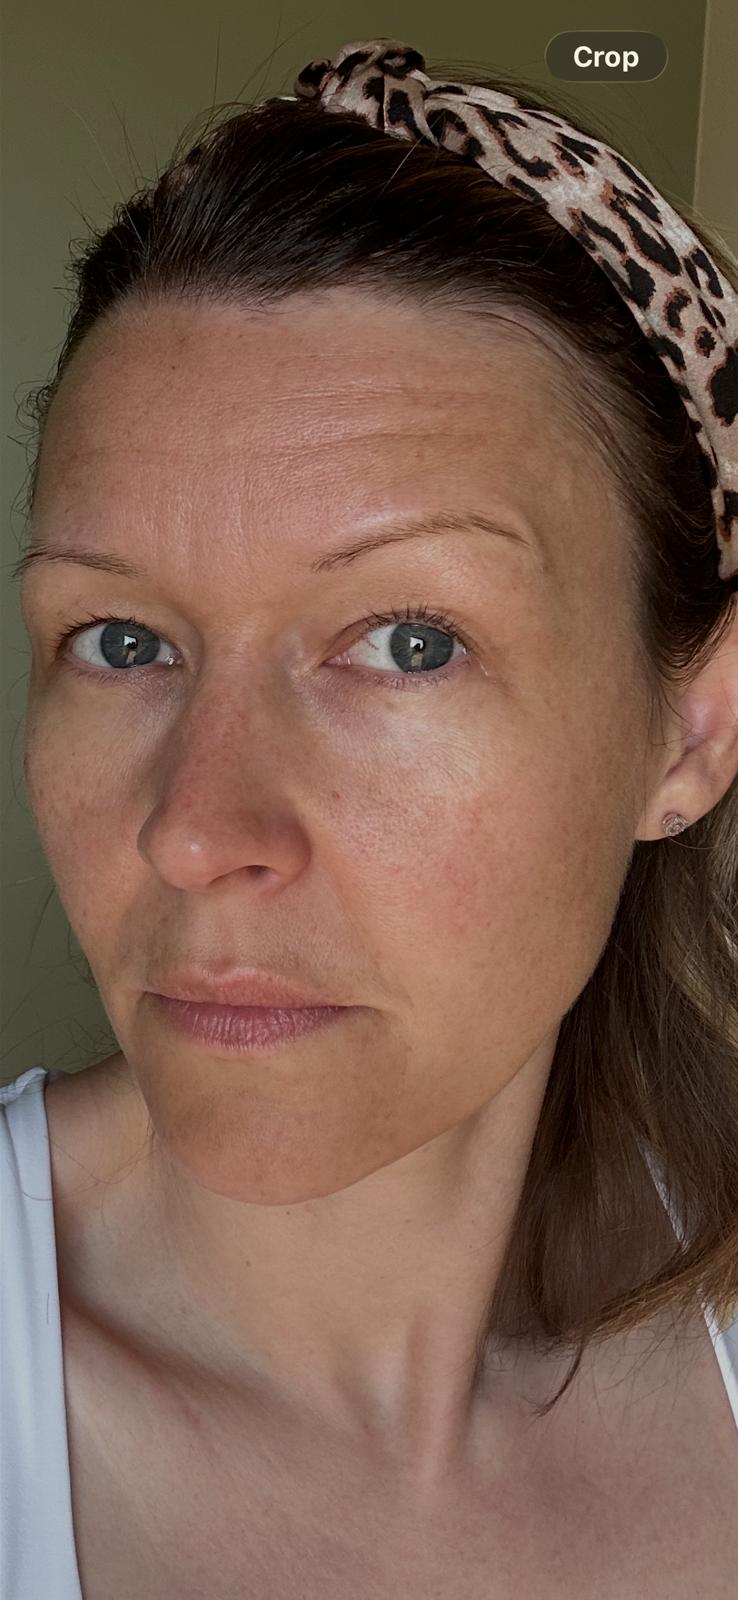
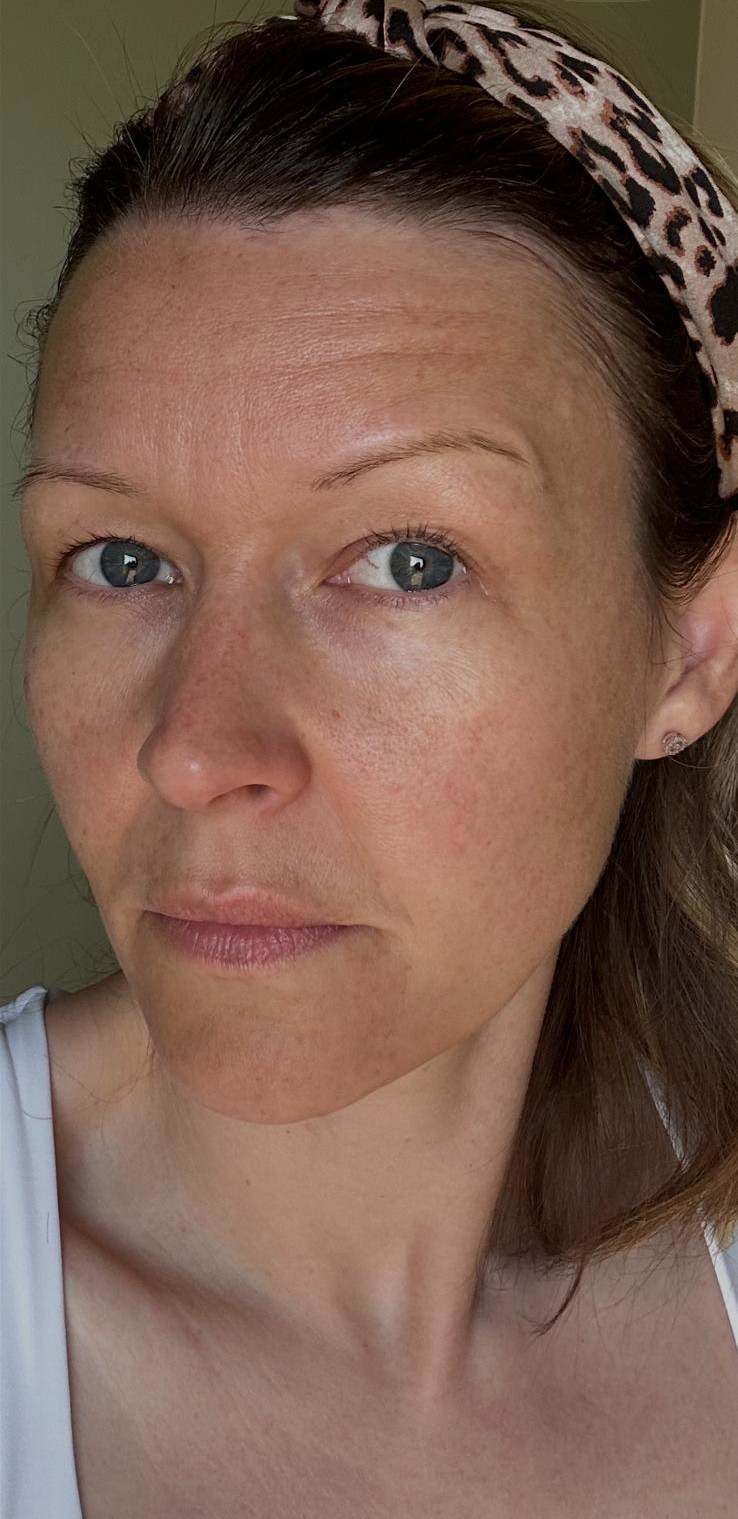
feat: add testimonials

diff --git a/app/testimonials/page.tsx b/app/testimonials/page.tsx
@@ -1,3 +1,62 @@
-import { SectionIntro, SiteShell, TestimonialGrid } from '@/components/serenity-site'
-export const metadata = { title: 'Kind words' }
-export default function TestimonialsPage() { return <SiteShell><main><section className="page-hero"><p className="eyebrow">Kind words</p><h1>What a little<br />space can hold.</h1></section><section className="section"><SectionIntro eyebrow="From our community" title="The best part is hearing how Serenity becomes part of your day." /><TestimonialGrid /></section></main></SiteShell> }
+import { type Metadata, type NextPage } from 'next';
+
+// components
+import PageTitle from '@/components/content/PageTitle';
+
+// constants
+import { TITLE } from '@/constants';
+
+// containers
+import PageShell from '@/containers/PageShell';
+
+// data
+import testimonials from '@/data/testimonials';
+
+// styles
+import styles from './styles.module.css';
+
+export const metadata: Metadata = { title: `Testimonials | ${TITLE}` };
+
+const TestimonialsPage: NextPage = () => {
+  return (
+    <PageShell>
+      <main className={styles.main}>
+        <header className={styles.header}>
+          <PageTitle>Our Testimonials</PageTitle>
+        </header>
+
+        <section className={styles.testimonials} aria-label="Customer testimonials">
+          {testimonials.map((item) => (
+            <article key={item.slug} id={`testimonial-${item.slug}`} className={styles.testimonial}>
+              {item.image && (
+                <div className={styles.image}>
+                  <img
+                    src={item.image}
+                    alt={item.name ? `Photo accompanying ${item.name}'s testimonial` : 'Photo accompanying this customer testimonial'}
+                    loading="lazy"
+                  />
+                </div>
+              )}
+
+              <div className={styles.content}>
+                {item.quote && <blockquote className={styles.quote}>{item.quote}</blockquote>}
+
+                {item.content && (
+                  <div className={styles.story}>
+                    {item.content.split(/\n\s*\n/).map((paragraph, index) => (
+                      <p key={index}>{paragraph}</p>
+                    ))}
+                  </div>
+                )}
+
+                {item.name && <footer className={styles.name}>{item.name}</footer>}
+              </div>
+            </article>
+          ))}
+        </section>
+      </main>
+    </PageShell>
+  );
+};
+
+export default TestimonialsPage;

diff --git a/app/testimonials/styles.module.css b/app/testimonials/styles.module.css
@@ -1,0 +1,91 @@
+.main {
+  display: flex;
+  flex-direction: column;
+  gap: var(--gap);
+  padding: var(--padding);
+}
+
+.header {
+  display: flex;
+  flex-direction: column;
+  align-items: center;
+  gap: var(--gap);
+  text-align: center;
+}
+
+.testimonials {
+  display: flex;
+  flex-direction: column;
+  gap: var(--gap);
+}
+
+.testimonial {
+  display: flex;
+  flex-direction: column;
+  gap: var(--gap);
+  padding: clamp(20px, 3vw, 40px);
+  background: var(--background);
+  color: var(--primary-font-color);
+}
+
+.image {
+  min-width: 0;
+}
+
+.image img {
+  display: block;
+  width: 100%;
+  height: auto;
+}
+
+.content {
+  display: flex;
+  flex-direction: column;
+  gap: 24px;
+  min-width: 0;
+  overflow-wrap: anywhere;
+}
+
+.quote {
+  margin: 0;
+  font-family: var(--font-heading);
+  font-size: clamp(26px, 3vw, 36px);
+  font-weight: 600;
+  line-height: 1.2;
+}
+
+.story {
+  display: flex;
+  flex-direction: column;
+  gap: 16px;
+  line-height: 1.7;
+}
+
+.story p {
+  margin: 0;
+  white-space: pre-line;
+}
+
+.name {
+  font-weight: 700;
+}
+
+@media (min-width: 768px) {
+  .header {
+    align-items: flex-start;
+    text-align: left;
+  }
+
+  .testimonial {
+    flex-direction: row;
+    align-items: center;
+  }
+
+  .image {
+    flex: 0 0 36%;
+  }
+
+  .content {
+    flex: 1;
+  }
+}

diff --git a/components/content/TestimonialCard/styles.module.css b/components/content/TestimonialCard/styles.module.css
@@ -1,5 +1,5 @@
 .container {
-  min-height: 270px;
+  min-height: 230px;
   padding: 32px;
   background: var(--background);
   display: flex;
@@ -7,13 +7,13 @@
 }
 
 .quoteMark {
-  font: 54px/0.7 var(--serif);
+  font: 54px/0.7 var(--font-heading);
   color: var(--taupe);
 }
 
 .container blockquote {
   margin: 22px 0 auto;
-  font: 400 23px/1.15 var(--serif);
+  font: 400 23px/1.15 var(--font-heading);
   letter-spacing: -.03em;
 }
 
@@ -30,8 +30,8 @@
   font-weight: 400;
 }
 
-@media (max-width: 700px) {
+@media (min-width: 768px) {
   .container {
-    min-height: 230px;
+    min-height: 270px;
   }
 }

diff --git a/components/content/TestimonialCard/TestimonialCard.tsx b/components/content/TestimonialCard/TestimonialCard.tsx
@@ -9,12 +9,13 @@ import type { Props } from './types';
 const TestimonialCard: FC<Props> = ({ item }) => {
   return (
     <article className={styles.container}>
-      <span className={styles.quoteMark}>“</span>
+      <span className={styles.quoteMark} aria-hidden="true">“</span>
       <blockquote>{item.quote}</blockquote>
-      <footer>
-        <strong>{item.name}</strong>
-        <span>{item.role}</span>
-      </footer>
+      {item.name && (
+        <footer>
+          <strong>{item.name}</strong>
+        </footer>
+      )}
     </article>
   );
 };

diff --git a/components/content/TestimonialList/styles.module.css b/components/content/TestimonialList/styles.module.css
@@ -1,13 +1,13 @@
 .container {
   display: grid;
-  grid-template-columns: repeat(3, 1fr);
+  grid-template-columns: 1fr;
   gap: 1px;
   background: var(--line);
   border: 1px solid var(--line);
 }
 
-@media (max-width: 700px) {
+@media (min-width: 768px) {
   .container {
-    grid-template-columns: 1fr;
+    grid-template-columns: repeat(3, minmax(0, 1fr));
   }
 }

diff --git a/components/content/TestimonialList/TestimonialList.tsx b/components/content/TestimonialList/TestimonialList.tsx
@@ -13,7 +13,7 @@ const TestimonialList: FC<Props> = ({ items }) => {
   return (
     <div className={styles.container}>
       {items.map((item) => (
-        <TestimonialCard key={item.name} item={item} />
+        <TestimonialCard key={item.slug} item={item} />
       ))}
     </div>
   );

diff --git a/data/testimonials.ts b/data/testimonials.ts
@@ -1,5 +1,5 @@
 // types
-import type { Testimonial } from '@/types/testimonials';
+import type { Testimonial } from '@/types/dtos';
 
 const testimonials: Testimonial[] = [
   {
